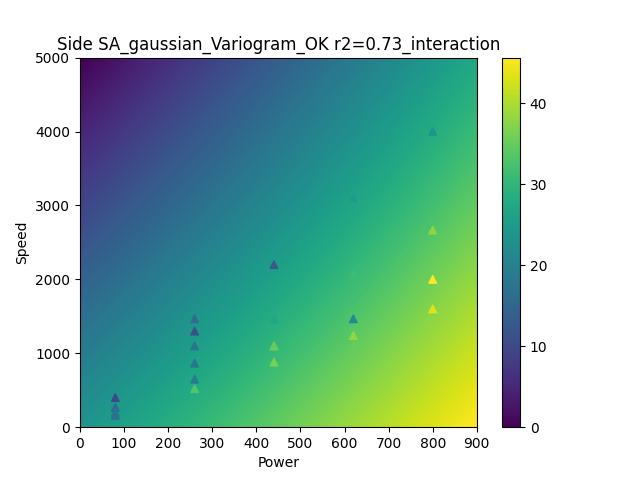
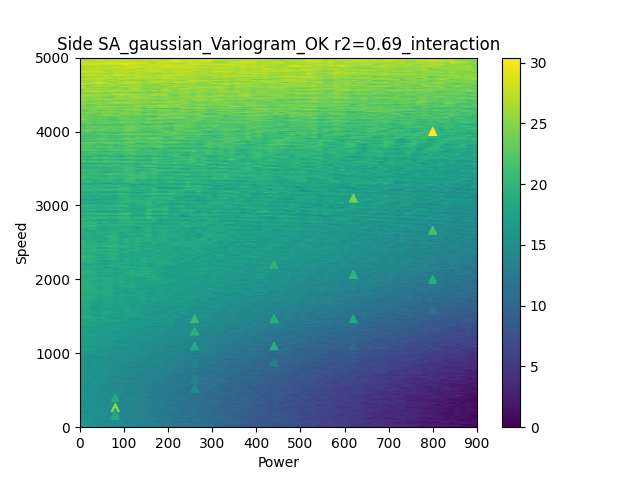
Variogram Classes and intergration
Moved var funcs to classes in a seperate file, intergrated into OK but not UK, considerable speed up

diff --git a/Ok_Uk_Module.py b/Ok_Uk_Module.py
@@ -3,42 +3,17 @@ import matplotlib.pyplot as plt
 from scipy.optimize import minimize
 from scipy import linalg
 import time
+from Variograms_Trendfuncs import *
 
 class OrdinaryKrigning:
-    def __init__(self,Points,Zvals,Variogram='gaussian'):
+    def __init__(self,Points,Zvals,Variogram=GaussianVariogram()):
         self.points=Points
         self.zvals=Zvals
         self.variogram=Variogram
         #immutable instance of the Z coordanites
         self.zvals_org = np.copy(self.zvals)
-#__todo___________
-# turn into hasmap for faster lookup    
-    #variogram selector
-        if self.variogram == 'gaussian':
-            def Variogram(h, a, C):
-                # Gaussian model with sill C and range a
-                return C * (1 - np.exp(-1*((h/a)**2)))
-        elif self.variogram == 'spherical': 
-            def Variogram(h, a, C):
-                # Spherical model with sill C and range a
-                return C * (1 - ((3/2) * (h/a) - (1/2) * (h/a)**3))  
-        elif self.variogram == 'exponential':
-            def Variogram(h, a, C):
-                # Exponential model with sill C and range a
-                return C * (1 - np.exp(-h/a))
-        elif self.variogram == 'linear':
-            def Variogram(h, a, C):
-                # Linear model with sill C and range a
-                return C * (h/a)
-        elif self.variogram == 'power':
-            def Variogram(h, a, C):
-                # Power model with sill C, range a
-                return C * (h/a)**2
-        else:
-            print('No valid variogram model selected')
-            quit()
 
-        self.vVariogram = np.vectorize(Variogram,otypes=[float])
+        self.vVariogram=Variogram
 
 
 
@@ -55,7 +30,8 @@ class OrdinaryKrigning:
         distances = np.sqrt((self.points[:, None, 0] - self.points[None, :, 0]) ** 2 + 
                     (self.points[:, None, 1] - self.points[None, :, 1]) ** 2 / self.anisotropy_factor ** 2)
 
-        result = self.vVariogram(distances, self.a,self.C)
+        self.vVariogram.set_a_C(self.a,self.C)
+        result=self.vVariogram(distances)
 
         # Add a row of ones at the bottom and a column of ones at the right
         result = np.pad(result, ((0, 1), (0, 1)), mode='constant', constant_values=1)
@@ -77,11 +53,15 @@ class OrdinaryKrigning:
 
         distances_to_point0 = np.sqrt((training_points[:, 0] - Xo) ** 2 + (training_points[:, 1] - Yo) ** 2 / self.anisotropy_factor ** 2)
 
-        vectorb = self.vVariogram(distances_to_point0, self.a,self.C)
+        #_____can probably be removed but this is more safe, if run time affect to large can be removed_______#
+        #self.vVariogram.set_a_C(self.a,self.C)
+        #____________________________________________________________________________________________________#
+
+        vectorb=self.vVariogram(distances_to_point0)
 
         vectorb = np.append(vectorb, 1)
 
-        lamd=linalg.solve(self.result,vectorb,assume_a='sym')
+        lamd=linalg.solve(self.result,vectorb)
 
         lamd=np.delete(lamd,-1)
 
@@ -112,21 +92,8 @@ class OrdinaryKrigning:
         return std_dev
     
     def interpgrid(self, xmin, xmax, ymin, ymax, step):
-        def __guess(point0):
-            distances_to_point0 = np.sqrt(np.sum((self.points - point0) ** 2, axis=1))
 
-            vectorb = self.vVariogram(distances_to_point0, self.a,self.C)
-
-            vectorb = np.append(vectorb, 1)
-
-            lamd = np.linalg.solve(self.result, vectorb)
-
-            lamd = np.delete(lamd, -1)
-
-            self.zarray = np.dot(lamd, self.zvals.T) 
-            return self.zarray 
-        
-        SingleGuess = np.vectorize(__guess, signature='(n)->()',otypes=[float])
+        SingleGuess = np.vectorize(self.SinglePoint,otypes=[float])
 
         x_range = np.arange(xmin, xmax, step)
         y_range = np.arange(ymin, ymax, step)
@@ -137,7 +104,7 @@ class OrdinaryKrigning:
         # Stack the points into a 2D array
         points_to_estimate = np.column_stack((X.flatten(), Y.flatten()))
 
-        z = SingleGuess(points_to_estimate)
+        z = SingleGuess(points_to_estimate[:,0],points_to_estimate[:,1])
 
         z = z.reshape(X.shape)
 
@@ -151,12 +118,8 @@ class OrdinaryKrigning:
 
         self.ManualParamSet(*InitialParams)
         self.params=InitialParams 
-#_______________to Do_____________________
-#add a quicker option LOO is too slow for some things
-#probably a traditional R2 funciton
-#needs to ouput a residual
+        
         def calc_r_squared_LOO(params):    
-            C, a, nugget, anisotropy_factor = params
             predictions = []
             for i in range(len(self.points)):
                 model = OrdinaryKrigning(np.delete(self.points, i, axis=0), np.delete(self.zvals, i),Variogram=self.variogram)
@@ -171,7 +134,7 @@ class OrdinaryKrigning:
             return 1 - self.LOOr2  # We subtract from 1 because we want to minimize the function
 
         # Perform the optimization
-        result = minimize(calc_r_squared_LOO, self.params,method='L-BFGS-B')
+        result = minimize(calc_r_squared_LOO, self.params,method='L-BFGS-B',options={'maxiter':3})
         C_opt, a_opt, nugget_opt, anisotropy_factor_opt = result.x
         self.a=a_opt
         self.anisotropy_factor=anisotropy_factor_opt
@@ -194,7 +157,6 @@ class OrdinaryKrigning:
 
         t1 = time.time()
         self.exetime = t1-t0
-        print(self.exetime)
         return self.zarray
     
 
@@ -260,7 +222,6 @@ class UniversalKriging(OrdinaryKrigning):
         }
         #error handling
         if trendfunc not in trend_functions:
-            print('No valid trend function selected')
             quit()
         #assign var for calc_trend step
         self.trend_func = trend_functions[trendfunc]['func']

diff --git a/Variograms_Trendfuncs.py b/Variograms_Trendfuncs.py
@@ -1,0 +1,94 @@
+import numpy as np
+import time
+import tensorflow as tf
+
+def run_on_gpu():
+    with tf.device('/gpu:0'):
+        # Your TensorFlow code for GPU execution
+        print("Running on GPU")
+
+def run_on_cpu():
+    with tf.device('/cpu:0'):
+        # Your TensorFlow code for CPU execution
+        print("Running on CPU")
+
+try:
+    # Attempt to set the device to the first available GPU
+    tf.config.experimental.list_physical_devices('GPU')
+    tf.config.experimental.set_memory_growth(tf.config.experimental.list_physical_devices('GPU')[0], True)
+    run_on_gpu()
+except Exception as e:
+    print("Error occurred while trying to run on GPU: ", e)
+    # If an exception occurs, switch to CPU
+    run_on_cpu()
+
+class __VariogramWrapper:
+    def __init__(self, a=0, C=0):
+        self.a = tf.constant(a, dtype=tf.float16)
+        self.C = tf.constant(C, dtype=tf.float16)
+    def set_a_C(self, a, C):
+        self.a = tf.constant(a, dtype=tf.float16)
+        self.C = tf.constant(C, dtype=tf.float16)
+    def __call__(self, h):
+        pass
+
+# Spherical Variogram
+class SphericalVariogram(__VariogramWrapper):
+    def spherical_variogram(self, h):
+        h = tf.constant(h, dtype=tf.float16)
+        output = self.C * (1 - ((3 / 2) * (h / self.a) - (1 / 2) * (h / self.a)**3))
+        return output.numpy()
+
+    def __call__(self, h):
+        return self.spherical_variogram(h)
+
+# Exponential Variogram
+class ExponentialVariogram(__VariogramWrapper):
+    def exponential_variogram(self, h):
+        h = tf.constant(h, dtype=tf.float16)
+        output = self.C * (1 - tf.exp(-h / self.a))
+        return output.numpy()
+
+    def __call__(self, h):
+        return self.exponential_variogram(h)
+
+# Linear Variogram
+class LinearVariogram(__VariogramWrapper):
+    def linear_variogram(self, h):
+        h = tf.constant(h, dtype=tf.float16)
+        output = self.C * (h / self.a)
+        return output.numpy()
+
+    def __call__(self, h):
+        return self.linear_variogram(h)
+
+# Power Variogram
+class PowerVariogram(__VariogramWrapper):
+    def power_variogram(self, h):
+        h = tf.constant(h, dtype=tf.float16)
+        output = self.C * (h / self.a)**2
+        return output.numpy()
+
+    def __call__(self, h):
+        return self.power_variogram(h)
+# Gaussian Variogram
+class GaussianVariogram(__VariogramWrapper):
+    def gaussian_variogram(self, h):
+        h = tf.constant(h, dtype=tf.float16)
+        output = self.C * (1 - tf.exp(-((h / self.a)**2)))
+        return output.numpy()
+
+    def __call__(self, h):
+        return self.gaussian_variogram(h)
+
+"""#____Benchmarking____#
+matrix=np.random.rand(10000,10000)*100
+
+variogram=LinearVariogram(100,5)
+
+start=time.time()
+Cmatrix=variogram(matrix.astype(np.float16))
+end=time.time()
+print(end-start)
+print((end-start)/(10000*10000))
+print(f'{(end-start)/(10000*10000)*10**9} ns')"""

diff --git a/kriging_main_Testbench.py b/kriging_main_Testbench.py
@@ -7,13 +7,13 @@ from matplotlib import pyplot as plt
 #colum_defs
 xi_col=0
 yi_col=1
-zi_col=5
+zi_col=4
 #resolution
-resolution=10
+resolution=1
 #kriging config
 Params=[]
 
-Variogram='power'
+Variogram='gaussian'
 
     #plotting
 saveplot=True
@@ -23,7 +23,7 @@ loadeddata=np.loadtxt('data\surface_roughness.csv',delimiter=',',skiprows=1)
 points=loadeddata[:,[xi_col,yi_col]]
 zi=loadeddata[:,zi_col]
 
-krige=UniversalKriging(points,zi,Variogram=Variogram,trendfunc='cubic')
+krige=OrdinaryKrigning(points,zi,Variogram=GaussianVariogram())
 krige.AutoKrige(step=resolution)
 krige.Plot(f'Side SA_{Variogram}_Variogram_OK r2={round(krige.LOOr2,2)}_interaction',xtitle='Power',ytitle='Speed',saveplot=saveplot,address=f'figs\Side_SA_{Variogram}_UK.png',extent=[0, 900, 0, 5000])
 print(krige.LOOr2)

diff --git a/KLD_Testbench.py b/KLD_Testbench.py
@@ -64,7 +64,7 @@ def run_test(disp=False):
     terrain = generate_terrain(width=10, height=10, scale=np.random.uniform(low=.01,high=.02), octaves=np.random.randint(low=15,high=25), persistence=.1, sigma=2,z=10)
     points,zpoints=sample_points(terrain=terrain,num_points=10)    
 
-    kld=SpacialSensitivityAnalysisUK(points,zpoints,Variogram='exponential',trendfunc='cubic',radius=1)
+    kld=SpacialSensitivityAnalysisUK(points,zpoints,Variogram=ExponentialVariogram,trendfunc='cubic',radius=1)
     zmap=kld.AutoKrige(step=1,bounds=[0,10,0,10])
     kld.DiverganceLOO(step=1,manualbounds=[0,10,0,10])
     mse=np.mean((terrain-zmap.T)**2)
